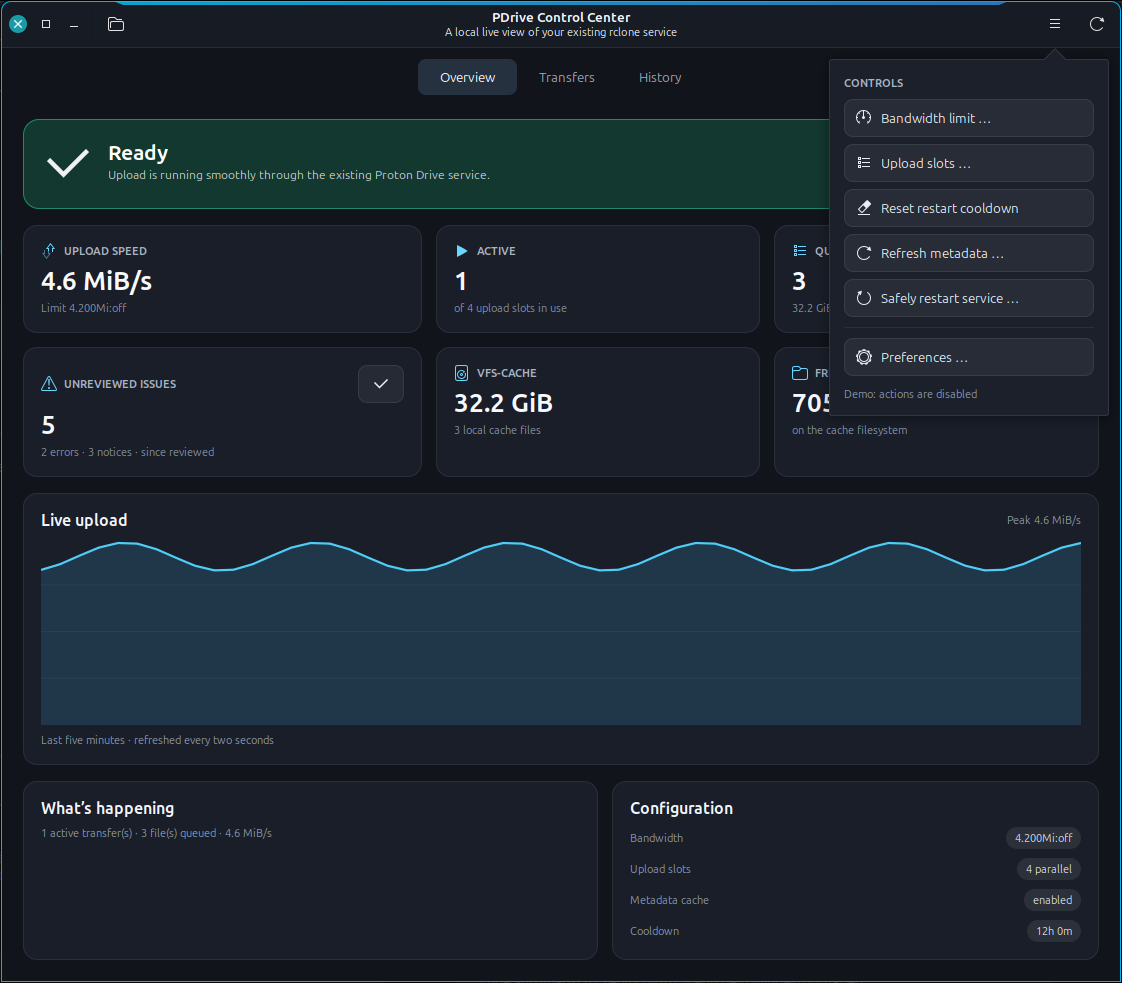
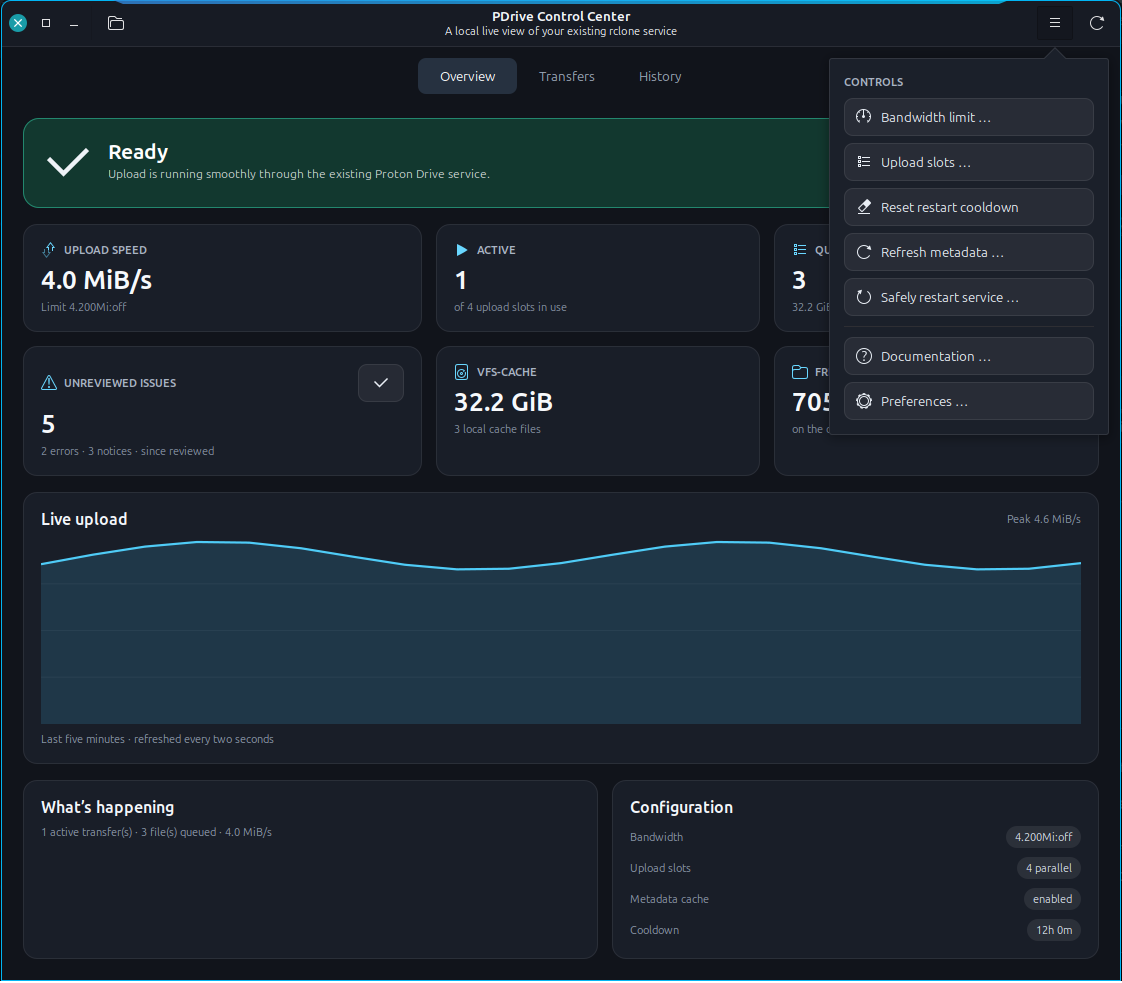
Refine control center menu behavior

diff --git a/README.md b/README.md
@@ -163,10 +163,13 @@ The control menu delegates bandwidth, slot and cooldown changes to the existing
 validated helpers. Metadata refresh and service restart keep their explicit
 terminal confirmation. Its header popover also exposes **Preferences**, where
 the window can be kept running in Cinnamon's tray and optionally start there
-with the desktop session. The latter
-creates a single marked user autostart file; a normal menu launch still opens
+with the desktop session, plus **Documentation** for the installed manual. The
+documentation action prefers the local copy, understands the conventional
+system package path and falls back to the project's GitHub page. The autostart
+option creates a single marked user file; a normal menu launch still opens
 visibly. The interface defaults to English and can be switched to German; the
-choice takes effect after restarting the Control Center.
+choice takes effect after restarting the Control Center. The control popover
+always starts closed and opens only when requested.
 
 A synthetic screen for development and screenshots is available without
 reading or changing the service; all mutating controls are disabled in demo

diff --git a/docs/OPERATIONS.md b/docs/OPERATIONS.md
@@ -164,6 +164,12 @@ validation:
 - metadata refresh and service restart open their existing guarded helpers in a
   terminal, preserving the explicit confirmation and queue checks.
 
+The same popover opens the Preferences dialog and the documentation. The latter
+prefers `$XDG_DATA_HOME/doc/proton-drive-linux/README.md`, then the conventional
+`/usr/share/doc/proton-drive-linux/README.md`, then a development checkout and
+finally the public GitHub README. The popover is constructed with visible child
+widgets but remains closed until the user activates its header button.
+
 `--demo` uses synthetic transfer/history data, never reads the live socket and
 disables every mutating control. `--check` validates GTK and locates
 `pdrive-state` without opening a window.
